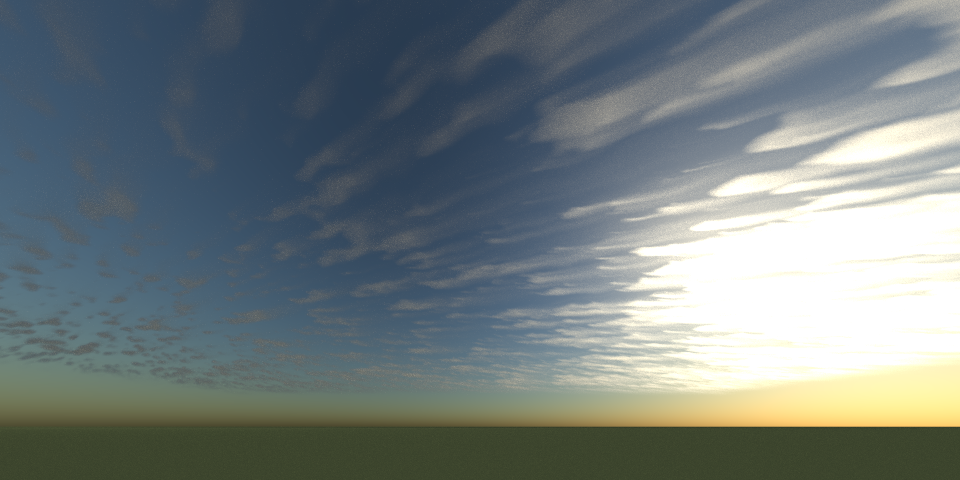
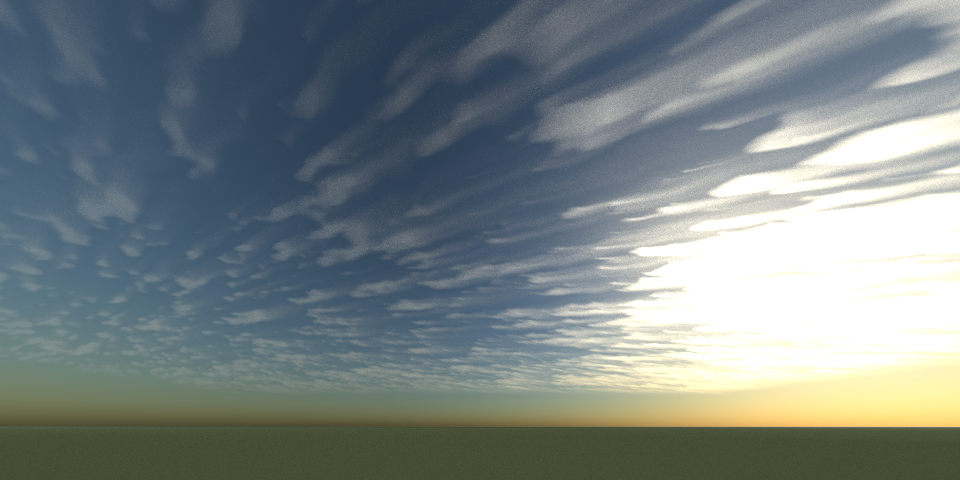
Aerial perspective from the skysphere's atmosphere
Light from objects reached the camera as if through a vacuum, so
distant clouds kept their full colour down to the horizon and the
lower parts of a halo display sat cleanly against the horizon glow.
Now, with a skysphere, every ray segment longer than 100 m is
attenuated by the air it crosses and gains the light the air scatters
along it: SkyMaterial::segment, the sky's own Rayleigh and Mie integral
stopped at the hit, so that far enough away an object fades into
exactly the sky behind it. Optical depths towards the sun are
tabulated by altitude, so a segment costs 16 samples. The air is lit
as if nothing shadowed it (no crepuscular rays yet). The skysphere's
"aerial_perspective": false turns it off.

Tests: an unbounded segment is the sky's radiance; 10 m of air changes
almost nothing and 20 km along the ground follows Beer-Lambert; an
emitter 30 km away is seen as emission x transmittance + in-scattered
light, and as itself with aerial perspective off.

Re-rendered with the sun's disc, sunlight by altitude and aerial
perspective: cirrostratus-halos, hogan-kew-cirrus, cirrus-iridescence.

Claude-Session: https://claude.ai/code/session_01U8ZZinwhHe5p11D21Sa8SU

diff --git a/src/skysphere.rs b/src/skysphere.rs
@@ -44,6 +44,7 @@ use crate::shapes::geometry::Geometry;
 use serde_json::{Value};
 use crate::scenefile::SceneFile;
 use rayon::prelude::*;
+use crate::light::{ALTITUDE_STEP, ALTITUDE_STEPS};
 
 // Constants for atmospheric scattering
 /// Scales the integrated radiance into the renderer's working range. Under the default sRGB
@@ -141,6 +142,10 @@ pub struct SkyMaterial {
     
     /// Mie anisotropy factor (controls the size of the glow around the sun)
     mie_anisotropy: f64,
+
+    /// Rayleigh and Mie optical depths towards the sun by altitude, every `ALTITUDE_STEP`
+    /// (None in the earth's shadow), for aerial perspective; built on first use.
+    sun_depths: std::sync::OnceLock<Vec<Option<(f64, f64)>>>,
 }
 
 impl SkyMaterial {
@@ -304,6 +309,62 @@ impl SkyMaterial {
         
         // Combine Rayleigh and Mie scattering
         (rayleigh_sum.component_mul(&beta_r), mie_sum.component_mul(&beta_m))
+    }
+}
+
+/// Aerial perspective: what the atmosphere does to light crossing a stretch of it.
+impl SkyMaterial {
+    /// Optical depths towards the sun from `altitude`, from a table by altitude: the sun is far
+    /// enough that, over a scene, only height above the ground matters.
+    fn sun_depth_at(&self, altitude: f64) -> Option<(f64, f64)> {
+        let table = self.sun_depths.get_or_init(|| (0..ALTITUDE_STEPS).map(|i| {
+            let p = self.earth.center + Vector3::new(0., self.earth.radius + (i as f64 * ALTITUDE_STEP).max(1.), 0.);
+            self.optical_depth_to_sun(p)
+        }).collect());
+        let x = (altitude / ALTITUDE_STEP).clamp(0., (ALTITUDE_STEPS - 1) as f64);
+        let i = (x as usize).min(ALTITUDE_STEPS - 2);
+        let f = x - i as f64;
+        match (table[i], table[i + 1]) {
+            (Some(a), Some(b)) => Some((a.0 + (b.0 - a.0) * f, a.1 + (b.1 - a.1) * f)),
+            // At the edge of the earth's shadow: whichever side we're nearer.
+            (a, b) => if f < 0.5 { a } else { b },
+        }
+    }
+
+    /// For light reaching `origin` along the unit direction `d` from `distance` away: the
+    /// fraction that crosses the air between (per channel), and the light the air scatters
+    /// towards `origin` on the way, on the same scale as the sky's radiance. This is the sky's
+    /// own integral (`scattering`), stopped at `distance`, so that far enough away an object
+    /// fades into the sky behind it. The air is lit by the sun as if nothing shadowed it.
+    pub fn segment(&self, origin: &Vector3<f64>, d: &Vector3<f64>, distance: f64) -> (Vector3<f64>, Vector3<f64>) {
+        let r = Ray { ro: *origin, rd: *d };
+        let length = match self.view_ray_length(&r) {
+            Some(l) => l.min(distance),
+            None => return (Vector3::repeat(1.), Vector3::zeros()),
+        };
+        let samples = DEFAULT_NUM_SAMPLES;
+        let step = length / samples as f64;
+        let beta_r = self.rayleigh_coefficients;
+        let beta_m = Vector3::repeat(self.mie_coefficient);
+        let (mut depth_r, mut depth_m) = (0., 0.);
+        let (mut rayleigh, mut mie) = (Vector3::zeros(), Vector3::zeros());
+        for i in 0..samples {
+            let p = origin + d * ((i as f64 + 0.5) * step);
+            let height = (p - self.earth.center).norm() - self.earth.radius;
+            let (dr, dm) = (self.optical_depth(height, self.rayleigh_thickness, step),
+                            self.optical_depth(height, self.mie_thickness, step));
+            depth_r += dr;
+            depth_m += dm;
+            if let Some((sr, sm)) = self.sun_depth_at(height) {
+                let tau = beta_r * (depth_r + sr) + beta_m * 1.1 * (depth_m + sm);
+                let attenuation = tau.map(|t| (-t).exp());
+                rayleigh += attenuation * dr;
+                mie += attenuation * dm;
+            }
+        }
+        let transmittance = (beta_r * depth_r + beta_m * 1.1 * depth_m).map(|t| (-t).exp());
+        let inscattered = self.apply_phase(d, rayleigh.component_mul(&beta_r), mie.component_mul(&beta_m)) * SKY_CALIBRATION;
+        (transmittance, inscattered)
     }
 }
 
@@ -543,6 +604,7 @@ pub fn parse_sky_material(o: &Value) -> SkyMaterial {
         rayleigh_coefficients,
         mie_coefficient,
         mie_anisotropy,
+        sun_depths: std::sync::OnceLock::new(),
     }
 }
 
@@ -550,6 +612,43 @@ pub fn parse_sky_material(o: &Value) -> SkyMaterial {
 mod tests {
     use super::*;
     use approx::assert_relative_eq;
+
+    fn sky_at(sun: &str) -> SkyMaterial {
+        parse_sky_material(&serde_json::from_str(&format!(r#"{{ "type": "skysphere", "sun_direction": {} }}"#, sun)).unwrap())
+    }
+
+    #[test]
+    fn test_unbounded_segment_is_the_sky() {
+        // Far enough, an object fades into exactly the sky behind it.
+        let sky = sky_at("[0.3, 0.3, 1]");
+        for d in [Vector3::new(0., 0.2, 1.), Vector3::new(1., 0.05, 0.), Vector3::new(-0.3, 0.7, -0.5)] {
+            let d = d.normalize();
+            let o = Vector3::new(0., 2., 0.);
+            let (t, inscattered) = sky.segment(&o, &d, f64::INFINITY);
+            let radiance = sky.radiance(&Ray { ro: o, rd: d }) * SKY_CALIBRATION;
+            assert!(t.max() < 1.);
+            for c in 0..3 {
+                assert!((inscattered[c] / radiance[c] - 1.).abs() < 0.03, "{}: {} vs {}", d, inscattered, radiance);
+            }
+        }
+    }
+
+    #[test]
+    fn test_segment_attenuates_like_the_air() {
+        let sky = sky_at("[0, 1, 0]");
+        let o = Vector3::new(0., 1., 0.);
+        let (t, inscattered) = sky.segment(&o, &Vector3::new(1., 0., 0.), 10.);
+        assert!(t.min() > 0.999 && inscattered.max() < 1e-3, "{} {}", t, inscattered);
+        // 20 km along the ground: Beer-Lambert at sea-level density, to within the earth's
+        // curvature lifting the far end 31 m.
+        let (t, _) = sky.segment(&o, &Vector3::new(1., 0., 0.), 20000.);
+        let expected = (sky.rayleigh_coefficients + Vector3::repeat(sky.mie_coefficient * 1.1)) * -20000.;
+        for c in 0..3 {
+            assert!((t[c] / expected[c].exp() - 1.).abs() < 0.01, "{} vs {}", t, expected.map(|x| x.exp()));
+        }
+        // Blue is lost first.
+        assert!(t.z < t.y && t.y < t.x);
+    }
 
     #[test]
     fn test_rayleigh_phase() {
@@ -603,6 +702,7 @@ mod tests {
             rayleigh_coefficients: Vector3::new(DEFAULT_RAYLEIGH_R, DEFAULT_RAYLEIGH_G, DEFAULT_RAYLEIGH_B),
             mie_coefficient: DEFAULT_MIE_COEFFICIENT,
             mie_anisotropy: DEFAULT_MIE_ANISOTROPY,
+            sun_depths: Default::default(),
         };
         // Just after sunset, the sun 0.02 radians below the horizon. From 100 m up, the sun ray
         // passes only slightly beneath the ground, so integrating through it would let a little
@@ -625,6 +725,7 @@ mod tests {
             rayleigh_coefficients: Vector3::new(DEFAULT_RAYLEIGH_R, DEFAULT_RAYLEIGH_G, DEFAULT_RAYLEIGH_B),
             mie_coefficient: DEFAULT_MIE_COEFFICIENT,
             mie_anisotropy: DEFAULT_MIE_ANISOTROPY,
+            sun_depths: Default::default(),
         }
     }
 
@@ -679,6 +780,7 @@ mod tests {
             rayleigh_coefficients: Vector3::new(DEFAULT_RAYLEIGH_R, DEFAULT_RAYLEIGH_G, DEFAULT_RAYLEIGH_B),
             mie_coefficient: DEFAULT_MIE_COEFFICIENT,
             mie_anisotropy: DEFAULT_MIE_ANISOTROPY,
+            sun_depths: Default::default(),
         };
         let r = Ray { ro: Vector3::new(0., 1., 0.), rd: Vector3::new(0., 0.3, 1.).normalize() };
         let (a, b) = (sky(20.).radiance(&r), sky(40.).radiance(&r));
@@ -699,6 +801,7 @@ mod tests {
             rayleigh_coefficients: Vector3::new(DEFAULT_RAYLEIGH_R, DEFAULT_RAYLEIGH_G, DEFAULT_RAYLEIGH_B),
             mie_coefficient: DEFAULT_MIE_COEFFICIENT,
             mie_anisotropy: DEFAULT_MIE_ANISOTROPY,
+            sun_depths: Default::default(),
         };
         // Camera 10m above the surface, looking straight down.
         let down = Ray { ro: Vector3::new(0., 10., 0.), rd: Vector3::new(0., -1., 0.) };
@@ -721,6 +824,7 @@ mod tests {
             rayleigh_coefficients: Vector3::new(DEFAULT_RAYLEIGH_R, DEFAULT_RAYLEIGH_G, DEFAULT_RAYLEIGH_B),
             mie_coefficient: DEFAULT_MIE_COEFFICIENT,
             mie_anisotropy: DEFAULT_MIE_ANISOTROPY,
+            sun_depths: Default::default(),
         };
         
         // Test optical depth at different heights

diff --git a/src/trace.rs b/src/trace.rs
@@ -13,6 +13,10 @@ pub fn trace (r: &Ray, depth: u64, s: &Scene) -> (u64, Color) {
     trace_from(r, depth, s, false)
 }
 
+/// Segments shorter than this (scene units: metres, in sky scenes) cross too little air to
+/// matter: 100 m of sea-level air takes about half a percent of blue light.
+const AERIAL_PERSPECTIVE_FROM: f64 = 100.;
+
 /// Trace a ray. `after_light_sampling` is set for a ray scattered from a surface that has just
 /// sampled the lights directly (the area lights and the sun); their emission is then already
 /// counted, and is ignored if this ray hits one, or sees the sun.
@@ -22,7 +26,18 @@ fn trace_from(r: &Ray, depth: u64, s: &Scene, after_light_sampling: bool) -> (u6
     let reaches_sky = closest.as_ref().is_none_or(|x| x.dist >= SUN_SHADOW_DISTANCE);
 
     let (cast, color) = match closest {
-        Some(x) => trace_intersection(r, x, depth, s, after_light_sampling),
+        Some(x) => {
+            let dist = x.dist;
+            let (cast, color) = trace_intersection(r, x, depth, s, after_light_sampling);
+            match &s.atmosphere {
+                // The sky already includes the air in front of it.
+                Some(sky) if dist > AERIAL_PERSPECTIVE_FROM && !reaches_sky => {
+                    let (transmittance, inscattered) = sky.segment(&r.ro, &r.rd.normalize(), dist);
+                    (cast, color * transmittance + inscattered)
+                },
+                _ => (cast, color),
+            }
+        },
         None => (1, s.render.background.radiance(&r.rd)),
     };
     match &s.sun {
@@ -498,6 +513,31 @@ mod tests {
         let seen = trace(&towards, 0, &s).1.rgb.x;
         let disc = sun.disc_radiance(&Vector3::zeros(), &sun.direction).rgb.x;
         assert!((seen - 0.5 * disc).abs() < 1e-6 * disc, "{} vs {}", seen, 0.5 * disc);
+    }
+
+    #[test]
+    fn test_aerial_perspective() {
+        // A white emitter 30 km away is seen through 30 km of air: attenuated, and hazed by the
+        // light the air scatters; switched off, it is seen as it is.
+        let scene = |aerial: bool| SceneFile::from_string(format!(r#"{{
+            "max_depth": 1,
+            "camera": {{ "location": [0, 2, 0], "lookat": [0, 2, 1], "up": [0, 1, 0], "angle": 0.5 }},
+            "materials": {{ "L": {{ "type": "diffuse-light", "color": [1, 1, 1], "two_sided": true }} }},
+            "objects": [
+                {{ "type": "skysphere", "sun_direction": [0, 0.5, 1], "aerial_perspective": {} }},
+                {{ "type": "triangle", "v0": [-5000, -100, 30000], "v1": [5000, -100, 30000], "v2": [0, 5000, 30000], "material": "L" }}
+            ]
+        }}"#, aerial));
+        let r = Ray { ro: Vector3::new(0., 2., 0.), rd: Vector3::new(0., 0., 1.) };
+        let s = scene(true);
+        let seen = trace(&r, 0, &s).1;
+        let (t, inscattered) = s.atmosphere.as_ref().unwrap().segment(&r.ro, &r.rd, 30000.);
+        for c in 0..3 {
+            assert!((seen.rgb[c] - (t[c] + inscattered[c])).abs() < 1e-9, "{:?} vs {} + {}", seen, t, inscattered);
+        }
+        assert!(t.z < 0.5, "{}", t);
+        let plain = trace(&r, 0, &scene(false)).1;
+        assert_eq!(plain, Color::white());
     }
 
     #[test]

diff --git a/src/scenefile.rs b/src/scenefile.rs
@@ -1007,9 +1007,9 @@ impl SceneFile {
     }
 
     /// The scene's directional light: `{"direction": [x, y, z], "color": colour, "intensity": E,
-    /// "angular_radius": degrees}`, with irradiance `color` × `intensity` (defaults white and
-    /// 1) on a surface facing it, `direction` pointing towards it, and a visible disc of the
-    /// given radius (default the sun's, 0.2666°). With a skysphere in `objects`, the sun is the
+    /// "angular_radius": degrees}`, with irradiance `color` × `intensity` (by default white
+    /// and one) on a surface facing it, `direction` pointing towards it, and a visible disc of
+    /// the given radius (default the sun's, 0.2666°). With a skysphere in `objects`, the sun is the
     /// sky's: it takes the sky's `sun_direction` (so `direction` is not allowed), `intensity`
     /// is its irradiance above the atmosphere, and it is reddened by the sky's atmosphere on
     /// its way down to each point, according to the point's altitude (scene y, in metres), so
@@ -1077,6 +1077,10 @@ impl SceneFile {
         );
 
         let sun = SceneFile::parse_sun(&s.sun, &s.objects);
+        // Aerial perspective, unless the skysphere turns it off.
+        let atmosphere = s.objects.iter()
+            .find(|o| o["type"].as_str() == Some("skysphere") && o["aerial_perspective"].as_bool() != Some(false))
+            .map(|o| Arc::new(parse_sky_material(o)));
         let objects = SceneFile::parse_objects(s.objects, &s.materials, &s.media);
         // Emitters with a surface we can sample become area lights.
         let area_lights: Vec<Arc<SceneObject>> = objects.iter()
@@ -1115,6 +1119,7 @@ impl SceneFile {
             output: OutputOpts::parse(&s.output),
             area_lights,
             sun,
+            atmosphere,
         }
     }
 

diff --git a/src/scene.rs b/src/scene.rs
@@ -8,6 +8,7 @@ use crate::participatingmedia::ParticipatingMedium;
 use crate::output::OutputOpts;
 use crate::sceneobject::SceneObject;
 use std::sync::Arc;
+use crate::skysphere::SkyMaterial;
 
 /// What a path contributes when it is cut short. Paths always stop at `max_depth`, or when their
 /// weight falls below the black threshold.
@@ -129,6 +130,9 @@ pub struct Scene {
     pub area_lights: Vec<Arc<SceneObject>>,
     /// A directional light, sampled directly by diffuse surfaces and media.
     pub sun: Option<Sun>,
+    /// The skysphere's atmosphere, if any, for aerial perspective: light from distant objects
+    /// is attenuated and hazed by the air it crosses.
+    pub atmosphere: Option<Arc<SkyMaterial>>,
 }
 
 impl Scene {

diff --git a/CLAUDE.md b/CLAUDE.md
@@ -6,7 +6,7 @@ Rays.rust is a raytracer written in Rust with the following features:
 - Material models: Lambertian, Specular, Dielectric
 - Objects: Sphere, Plane, Mesh, OBJ file import
 - Participating media: boxes of constant or noise-driven density (delta tracking with local majorants, ratio-tracked shadows); Henyey-Greenstein or Mie (water droplet) phase; diffraction by particles (coronae, iridescence); ice-crystal halos traced through hexagonal prisms (sun dogs, 22°/46° halos, circumzenithal arc); optional similarity and Oz multiple-scattering approximations
-- Skysphere with Rayleigh and Mie Scattering
+- Skysphere with Rayleigh and Mie Scattering, and aerial perspective (distant objects attenuated and hazed by the same atmosphere)
 - Directional sun light (`"sun"`), sampled directly; follows the skysphere's sun and is reddened by its atmosphere
 - Procedural objects including Ocean (Tessendorf's algorithm with Phillips spectrum) and volumetric clouds: cumulus to stratus (`"nubis_clouds"`, after Horizon Zero Dawn's Nubis) and cirrus with fallstreaks (`"hogan_kew_cirrus"`, after Hogan and Kew)
 - Multithreaded rendering with progressive output
